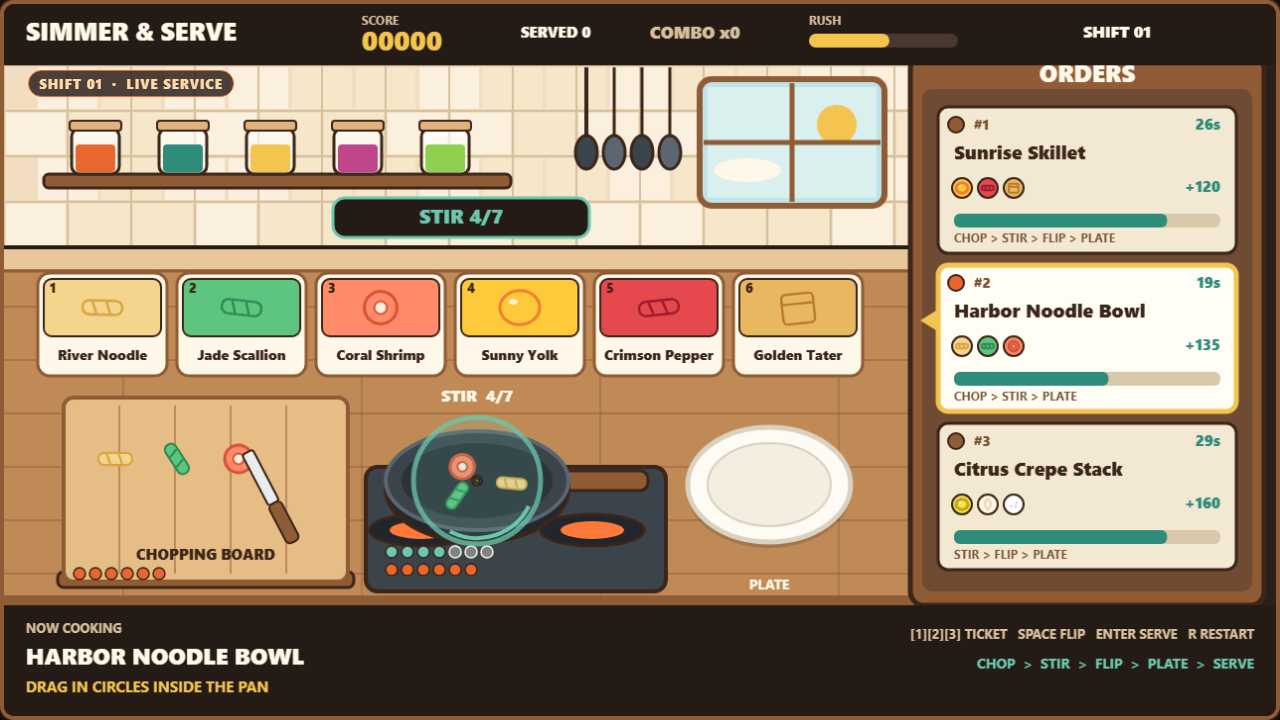
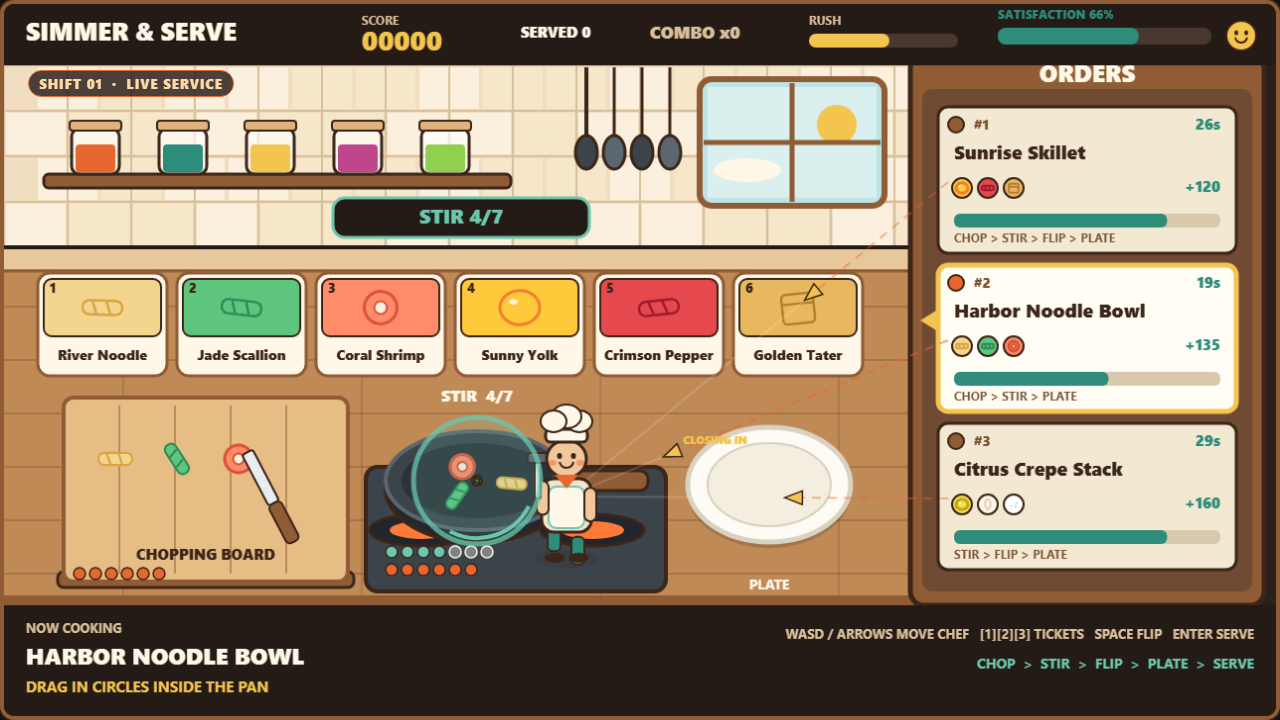
Add chef, pursuit tickets and satisfaction meter

diff --git a/game/src/render.js b/game/src/render.js
@@ -1,4 +1,4 @@
-// render.js — paints kitchen and tickets from state only; motion is a function of now.
+// render.js — paints kitchen, the walking chef, chasing tickets and satisfaction from state only; motion is a function of now.
 
 import { PALETTE as P, LAYOUT as L, TIMER, ingredientById as ing } from './config.js';
 import { binIds } from './actions.js';
@@ -104,6 +104,52 @@ function plate(c,state){
     if(state.active&&stepOf(state.active)==='plate')txt(c,'CLICK TO PLATE!',cx,p.y-14,16,P.gold,800,'center')}
 }
 
+// The house chef: round face, puffy hat, teal apron, and a tool for the station.
+function drawChef(c,state){
+  const p=state.player,bob=p.moving?Math.sin(p.step)*2:Math.sin(state.now/420)*1.2;
+  const shakeX=state.shake>0?Math.sin(state.now/26)*(state.shake/420)*5:0;
+  const swing=Math.sin(state.now/120)*4;
+  c.save();c.translate(p.x+shakeX,p.y+bob);c.scale(p.facing,1);
+  ell(c,0,3,32,9,P.shadow,null);
+  const stride=p.moving?Math.sin(p.step)*7:0;
+  box(c,-18,-26+stride,13,28,5,P.teal,P.ink,2);box(c,6,-26-stride,13,28,5,P.teal,P.ink,2);
+  ell(c,-12,2,10,5,P.ink,null);ell(c,12,2,10,5,P.ink,null);
+  box(c,-25,-78,50,54,12,'#F3E4C9',P.ink,3);
+  box(c,-18,-70,36,42,8,P.cream,P.tealLight,2);
+  box(c,-30,-72+swing,12,34,6,'#F2C79C',P.ink,2);box(c,18,-72-swing,12,34,6,'#F2C79C',P.ink,2);
+  if(p.tool==='knife'){box(c,26,-92,7,34,2,'#E8EDF0',P.ink,2);box(c,23,-60,13,16,4,P.woodDark,P.ink,2)}
+  else if(p.tool==='spatula'){box(c,26,-96,6,38,2,'#E8EDF0',P.ink,2);box(c,19,-104,20,10,3,P.panHi,P.ink,2)}
+  else ell(c,28,-62,16,6,P.plate,P.plateRim,2);
+  ell(c,0,-98,20,19,'#F2C79C',P.ink,3);
+  ell(c,-7,-101,2.5,3,P.ink,null);ell(c,7,-101,2.5,3,P.ink,null);
+  ell(c,-14,-94,4,3,'rgba(232,103,46,.45)',null);ell(c,14,-94,4,3,'rgba(232,103,46,.45)',null);
+  c.strokeStyle=P.ink;c.lineWidth=2;c.beginPath();c.arc(0,-96,7,.15,Math.PI-.15);c.stroke();
+  c.fillStyle=P.orange;c.beginPath();c.moveTo(-12,-82);c.lineTo(12,-82);c.lineTo(0,-68);c.closePath();c.fill();
+  box(c,-21,-128,42,13,5,P.cream,P.ink,3);
+  ell(c,-13,-136,13,11,P.cream,P.ink,2);ell(c,0,-141,15,12,P.cream,P.ink,2);ell(c,13,-136,13,11,P.cream,P.ink,2);
+  c.restore()
+}
+
+// Each ticket's arrow slides from the board toward the chef as its timer drains.
+function pursuitRails(c,state){
+  const p=state.player;
+  state.orders.forEach((order,i)=>{
+    const t={x:L.ticket.x,y:L.ticket.y+i*(L.ticket.h+L.ticket.gap)};
+    const ratio=Math.max(0,order.remaining/order.total),urgent=ratio<.25,pr=order.pursuit||0;
+    const sx=t.x+10,sy=t.y+76,ex=p.x,ey=p.y-58;
+    const bx=sx+(ex-sx)*pr,by=sy+(ey-sy)*pr;
+    c.save();c.globalAlpha=.32+pr*.34;c.strokeStyle=urgent?P.red:P.orange;c.lineWidth=urgent?3:2;
+    c.setLineDash([9,7]);c.beginPath();c.moveTo(sx,sy);c.lineTo(bx,by);c.stroke();c.setLineDash([]);
+    c.globalAlpha=.16;c.strokeStyle=P.cream;c.lineWidth=2;c.beginPath();c.moveTo(bx,by);c.lineTo(ex,ey);c.stroke();
+    c.globalAlpha=1;c.fillStyle=urgent?P.red:P.gold;
+    c.save();c.translate(bx,by);c.rotate(Math.atan2(ey-sy,ex-sx));
+    c.beginPath();c.moveTo(11,0);c.lineTo(-7,-7);c.lineTo(-7,7);c.closePath();c.fill();
+    c.strokeStyle=P.ink;c.lineWidth=1.5;c.stroke();c.restore();
+    if(pr>.62||urgent)txt(c,urgent?'! CLOSING IN':'CLOSING IN',bx+10,by-12,11,urgent?P.red:P.gold,800);
+    c.restore()
+  })
+}
+
 function orders(c,state){
   const o=L.order;
   box(c,o.x-12,o.y-34,o.w+24,o.h+48,14,P.woodDark,P.ink,5);
@@ -114,7 +160,9 @@ function orders(c,state){
     const t={x:L.ticket.x,y:L.ticket.y+i*(L.ticket.h+L.ticket.gap),w:L.ticket.w,h:L.ticket.h};
     const chosen=i===state.selected,r=Math.max(0,order.remaining/order.total);
     const bar=r>.55?P.teal:r>.25?P.gold:P.red;
-    box(c,t.x,t.y,t.w,t.h,10,chosen?'#FFFDF4':'#F3E8D2',chosen?P.gold:P.ink,chosen?5:3);
+    if(r<.25){c.shadowColor=P.red;c.shadowBlur=18}
+    box(c,t.x,t.y,t.w,t.h,10,chosen?'#FFFDF4':'#F3E8D2',r<.25?P.red:chosen?P.gold:P.ink,chosen?5:3);
+    c.shadowBlur=0;
     ell(c,t.x+18,t.y+18,8,8,chosen?P.orange:P.woodDark,P.ink,2);
     txt(c,'#'+order.id,t.x+36,t.y+19,14,P.inkSoft,800);
     txt(c,Math.ceil(order.remaining/1000)+'s',t.x+t.w-16,t.y+19,15,bar,800,'right');
@@ -131,7 +179,9 @@ function orders(c,state){
 export function drawKitchen(c,state){
   c.clearRect(0,0,L.width,L.height);wall(c);
   c.fillStyle='#2B1F1A';c.fillRect(916,0,L.width-916,L.height);
-  counter(c);bins(c,state);board(c,state);stove(c,state);plate(c,state);orders(c,state)
+  c.save();if(state.shake>0)c.translate(Math.sin(state.now/24)*(state.shake/420)*5,0);
+  counter(c);bins(c,state);board(c,state);stove(c,state);plate(c,state);orders(c,state);
+  pursuitRails(c,state);drawChef(c,state);c.restore()
 }
 
 export function drawHUD(c,state){
@@ -141,7 +191,15 @@ export function drawHUD(c,state){
   txt(c,'SERVED '+state.served,520,30,15,P.cream,800);txt(c,'COMBO x'+state.combo,650,30,17,state.combo>1?P.orangeLight:P.grout,800);
   txt(c,'RUSH',810,18,12,P.grout,700);box(c,810,30,150,14,7,'#4A3830',null);
   box(c,810,30,Math.max(4,150*state.rush/100),14,7,state.rush>66?P.red:state.rush>33?P.gold:P.teal,null);
-  txt(c,'SHIFT 01',1120,30,16,P.cream,800,'center');
+  const sat=Math.max(0,Math.min(100,state.satisfaction||0)),satCol=sat>60?P.teal:sat>30?P.gold:P.red;
+  txt(c,'SATISFACTION '+Math.round(sat)+'%',1000,12,12,satCol,800);
+  box(c,1000,24,215,17,8,'#4A3830',null);
+  box(c,1000,24,Math.max(5,215*sat/100),17,8,satCol,null);
+  ell(c,1245,32,15,15,P.gold,P.ink,2);
+  ell(c,1240,29,2,2.5,P.ink,null);ell(c,1250,29,2,2.5,P.ink,null);
+  c.strokeStyle=P.ink;c.lineWidth=2;c.beginPath();
+  if(sat>55)c.arc(1245,33,6,.15,Math.PI-.15);else c.arc(1245,43,6,Math.PI+.15,Math.PI*2-.15);
+  c.stroke();
   if(state.rush>66){c.globalAlpha=(.5+.5*Math.sin(state.now/220))*.16;c.fillStyle=P.red;c.fillRect(0,62,L.width,6);c.globalAlpha=1}
   const y=L.footer.y,order=selectedOrder(state);
   box(c,0,y,L.width,L.footer.h,0,P.night,null);
@@ -149,7 +207,7 @@ export function drawHUD(c,state){
   const s=state.active?stepOf(state.active):'pick';
   const hint=s==='pick'?'CLICK THE HIGHLIGHTED BINS IN RECIPE ORDER':s==='chop'?'CLICK / DRAG THE CHOPPING BOARD':s==='stir'?'DRAG IN CIRCLES INSIDE THE PAN':s==='flip'?'PRESS SPACE OR CLICK THE PAN TO FLIP':state.plated?'CLICK THE PLATE TO SERVE':'CLICK THE PLATE TO PLATE THE DISH';
   txt(c,hint,22,y+84,15,P.gold,700);
-  txt(c,'[1][2][3] TICKET   SPACE FLIP   ENTER SERVE   R RESTART',L.width-22,y+30,13,P.grout,700,'right');
+  txt(c,'WASD / ARROWS MOVE CHEF   [1][2][3] TICKETS   SPACE FLIP   ENTER SERVE',L.width-22,y+30,13,P.grout,700,'right');
   txt(c,'CHOP  >  STIR  >  FLIP  >  PLATE  >  SERVE',L.width-22,y+60,14,P.tealLight,700,'right');
   if(state.toast&&state.toast.until>state.now){const t=state.toast,w=250+t.text.length,tx=t.x??460,ty=t.y??216;
     box(c,tx-w/2,ty-20,w,40,12,P.night,t.color,3);txt(c,t.text,tx,ty,20,t.color,800,'center')}
@@ -157,6 +215,8 @@ export function drawHUD(c,state){
 }
 
 export function drawParticles(c,state){
+  if(state.expiryFlash>0){c.globalAlpha=(state.expiryFlash/520)*.28;c.fillStyle=P.red;
+    c.fillRect(0,L.hud.h,L.width,L.footer.y-L.hud.h);c.globalAlpha=1}
   for(const f of state.flashes){const a=Math.max(0,f.life/f.maxLife);c.globalAlpha=a*.75;c.strokeStyle=f.color;c.lineWidth=5;
     c.beginPath();c.arc(f.x,f.y,f.r*(1.4-a*.4),0,Math.PI*2);c.stroke();c.globalAlpha=a*.16;c.fillStyle=f.color;c.fill()}
   c.globalAlpha=1;

diff --git a/game/src/state.js b/game/src/state.js
@@ -1,7 +1,7 @@
-// state.js — the simulation. No clocks, no Math.random: every order, timer and
-// particle lifetime is driven by an explicit dt so a seed always replays the same shift.
+// state.js — the simulation. No clocks or built-in randomness: every order, timer
+// and particle lifetime is driven by an explicit dt, so a seed replays the same shift.
 
-import { RECIPES, TIMER } from './config.js';
+import { RECIPES, TIMER, LAYOUT } from './config.js';
 
 export function makeRandom(seed) {
   let s = seed >>> 0;
@@ -57,7 +57,11 @@ export function createState(seed = 7) {
     served: 0,
     missed: 0,
     rush: 8,
+    satisfaction: 72,
+    shake: 0,
+    expiryFlash: 0,
     selected: 0,
+    player: { x: 566, y: 556, facing: -1, step: 0, moving: false, station: 'pan', tool: 'spatula' },
     active: null,
     plated: null,
     particles: [],
@@ -82,6 +86,43 @@ export function selectTicket(state, index) {
   if (index >= 0 && index < state.orders.length) {
     state.selected = index;
     setToast(state, 'TICKET ' + (index + 1) + ' SELECTED', '#6BC8AE');
+  }
+}
+
+// WASD/arrow input moves the chef inside the walkable counter strip.
+export function movePlayer(state, dx, dy) {
+  const p = state.player;
+  p.x = Math.max(62, Math.min(890, p.x + dx));
+  p.y = Math.max(400, Math.min(592, p.y + dy));
+  if (dx) p.facing = dx > 0 ? 1 : -1;
+  p.moving = dx !== 0 || dy !== 0;
+  if (p.moving) p.step += 0.24;
+  const spots = [
+    { name: 'board', x: 300, y: 556, tool: 'knife' },
+    { name: 'pan', x: 566, y: 556, tool: 'spatula' },
+    { name: 'plate', x: 850, y: 556, tool: 'plate' },
+  ];
+  let best = spots[0], bestDist = Infinity;
+  for (const s of spots) {
+    const d = Math.abs(s.x - p.x) + Math.abs(s.y - p.y) * 0.5;
+    if (d < bestDist) { best = s; bestDist = d; }
+  }
+  if (bestDist < 260) { p.station = best.name; p.tool = best.tool; }
+  return p;
+}
+
+// Tickets "chase" the chef: urgency plus distance from the board sets how far
+// each ticket's arrow has slid along its rail. A preset can set pursuitFloor.
+export function updatePursuit(state) {
+  const p = state.player;
+  const boardX = LAYOUT.order.x + 40, boardY = LAYOUT.order.y + LAYOUT.order.h / 2;
+  for (const order of state.orders) {
+    const left = Math.max(0, Math.min(1, order.remaining / order.total));
+    const urgency = 1 - left;
+    const distance = Math.min(1, (Math.abs(p.x - boardX) / 900 + Math.abs(p.y - boardY) / 700));
+    const wobble = (order.id % 3) * 0.03;
+    order.pursuit = Math.min(1, Math.max(order.pursuitFloor || 0,
+      urgency * 0.72 + distance * 0.24 + wobble));
   }
 }
 
@@ -151,6 +192,9 @@ export function advanceTimers(state, dtMs) {
       state.orders.splice(i, 1);
       state.missed++;
       state.combo = 0;
+      state.satisfaction = Math.max(0, state.satisfaction - 22);
+      state.shake = 420;
+      state.expiryFlash = 520;
       state.rush = Math.min(100, state.rush + 20);
       setToast(state, 'ORDER LOST!', '#D8483C');
     }
@@ -165,6 +209,9 @@ export function advanceTimers(state, dtMs) {
   }
 
   state.rush = Math.min(100, state.rush + (dt / 1000) * TIMER.rushRampPerSecond);
+  state.shake = Math.max(0, state.shake - dt);
+  state.expiryFlash = Math.max(0, state.expiryFlash - dt);
+  updatePursuit(state);
   if (state.active) state.active.elapsed += dt;
 
   for (let i = state.particles.length - 1; i >= 0; i--) {

diff --git a/game/src/shots.js b/game/src/shots.js
@@ -2,7 +2,7 @@
 // (never a menu): dishes, tickets, timers and particles are staged from the seed.
 
 import { TIMER, PALETTE, ingredientById } from './config.js';
-import { addOrder, advanceTimers } from './state.js';
+import { addOrder, advanceTimers, updatePursuit } from './state.js';
 import { emitBurst, emitFlash } from './actions.js';
 
 function orderById(state, id) {
@@ -56,6 +56,10 @@ export function applyShot(state, query) {
     emitFlash(state, 770, 486, PALETTE.gold, 72);
     state.toast = { text: 'PLATED — CLICK TO SERVE', color: PALETTE.gold,
       until: state.now + 4000, x: 460, y: 216 };
+    state.player = { x: 850, y: 556, facing: -1, step: 1.2, moving: false, station: 'plate', tool: 'plate' };
+    state.satisfaction = 92;
+    state.orders.forEach((o, i) => { o.pursuitFloor = [0.18, 0.44, 0.3][i] || 0.2 });
+    updatePursuit(state);
     state.rush = 46;
   } else if (shot === 'prep') {
     advanceTimers(state, 700);
@@ -69,6 +73,10 @@ export function applyShot(state, query) {
     state.toast = { text: 'CHOP 3/' + TIMER.chopGoal, color: PALETTE.gold,
       until: state.now + 4000, x: 460, y: 216 };
     if (state.orders[1]) state.orders[1].remaining = Math.round(state.orders[1].total * 0.72);
+    state.player = { x: 300, y: 556, facing: 1, step: 2.4, moving: true, station: 'board', tool: 'knife' };
+    state.satisfaction = 74;
+    state.orders.forEach((o, i) => { o.pursuitFloor = [0.62, 0.36, 0.24][i] || 0.2 });
+    updatePursuit(state);
   } else if (shot === 'assembly') {
     advanceTimers(state, 600);
     const order = orderById(state, 2);
@@ -80,6 +88,10 @@ export function applyShot(state, query) {
     emitFlash(state, 476, 482, PALETTE.tealLight, 64);
     state.toast = { text: 'STIR 4/' + TIMER.stirGoal, color: PALETTE.tealLight,
       until: state.now + 4000, x: 460, y: 216 };
+    state.player = { x: 566, y: 556, facing: -1, step: 1.8, moving: true, station: 'pan', tool: 'spatula' };
+    state.satisfaction = 66;
+    state.orders.forEach((o, i) => { o.pursuitFloor = [0.3, 0.72, 0.4][i] || 0.2 });
+    updatePursuit(state);
     state.rush = 54;
   } else if (shot === 'service') {
     advanceTimers(state, 1200);
@@ -96,6 +108,12 @@ export function applyShot(state, query) {
     emitFlash(state, 770, 486, PALETTE.gold, 92);
     state.lastServe = { points: 315, name: order.name, until: state.now + 4000 };
     state.toast = { text: 'SERVED +315', color: PALETTE.gold, until: state.now + 4000, x: 460, y: 216 };
+    state.player = { x: 850, y: 556, facing: -1, step: 0.8, moving: false, station: 'plate', tool: 'plate' };
+    state.satisfaction = 38;
+    state.orders.forEach((o, i) => { o.pursuitFloor = [0.92, 0.6, 0.45][i] || 0.2 });
+    updatePursuit(state);
+    state.shake = 180;
+    state.expiryFlash = 260;
   }
   return state;
 }

diff --git a/game/src/input.js b/game/src/input.js
@@ -2,7 +2,7 @@
 // The pointer is rescaled from CSS pixels to the fixed 1280x720 canvas grid.
 
 import { LAYOUT } from './config.js';
-import { selectTicket } from './state.js';
+import { selectTicket, movePlayer } from './state.js';
 
 export function inRect(p, r) {
   return p.x >= r.x && p.x <= r.x + r.w && p.y >= r.y && p.y <= r.y + r.h;
@@ -102,7 +102,12 @@ export function attachInput(canvas, state, actions, hooks = {}) {
   });
   canvas.addEventListener('contextmenu', (e) => e.preventDefault());
 
+  // Movement keys are held; a fixed-step frame loop walks the chef without a clock.
+  const held = new Set();
+  const walkKeys = ['w', 'a', 's', 'd', 'arrowup', 'arrowleft', 'arrowdown', 'arrowright'];
   window.addEventListener('keydown', (e) => {
+    const key = e.key.toLowerCase();
+    if (walkKeys.includes(key)) { held.add(key); e.preventDefault(); return; }
     if (e.repeat) return;
     if (e.key === '1' || e.key === '2' || e.key === '3') {
       actions.selectTicketAt(state, Number(e.key) - 1);
@@ -112,8 +117,20 @@ export function attachInput(canvas, state, actions, hooks = {}) {
     } else if (e.key === 'Enter') {
       e.preventDefault();
       actions.serve(state);
-    } else if (e.key.toLowerCase() === 'r') {
+    } else if (key === 'r') {
       if (hooks.onRestart) hooks.onRestart();
     }
   });
+  window.addEventListener('keyup', (e) => held.delete(e.key.toLowerCase()));
+  window.addEventListener('blur', () => held.clear());
+
+  function walkFrame() {
+    const dx = (held.has('d') || held.has('arrowright') ? 1 : 0) -
+      (held.has('a') || held.has('arrowleft') ? 1 : 0);
+    const dy = (held.has('s') || held.has('arrowdown') ? 1 : 0) -
+      (held.has('w') || held.has('arrowup') ? 1 : 0);
+    if (dx || dy) movePlayer(state, dx * 4.2, dy * 4.2);
+    window.requestAnimationFrame(walkFrame);
+  }
+  window.requestAnimationFrame(walkFrame);
 }

diff --git a/game/src/actions.js b/game/src/actions.js
@@ -166,13 +166,18 @@ export function serve(state) {
   if (!order) {
     state.plated = null;
     state.combo = 0;
+    state.satisfaction = Math.max(0, state.satisfaction - 16);
+    state.shake = 340;
+    state.expiryFlash = 420;
+    emitBurst(state, c.x, c.y, [PALETTE.red, PALETTE.ink], 14, 150);
     emitFlash(state, c.x, c.y, PALETTE.red, 60);
-    return setToast(state, 'TICKET GONE — PLATE CLEARED', '#D8483C');
+    return setToast(state, 'WRONG DISH — SATISFACTION DOWN', '#D8483C');
   }
   const ratio = Math.max(0, order.remaining / order.total);
   const gained = scoreOrder(state, order, ratio);
   state.plated = null;
-  emitBurst(state, c.x, c.y, [PALETTE.gold, PALETTE.cream, dish.color], 26, 210);
+  state.satisfaction = Math.min(100, state.satisfaction + 12 + Math.round(ratio * 8));
+  emitBurst(state, c.x, c.y, [PALETTE.gold, PALETTE.cream, dish.color, '#F29CB5'], 26, 210);
   emitFlash(state, c.x, c.y, PALETTE.gold, 88);
   setToast(state, 'SERVED +' + gained, PALETTE.gold);
 }
